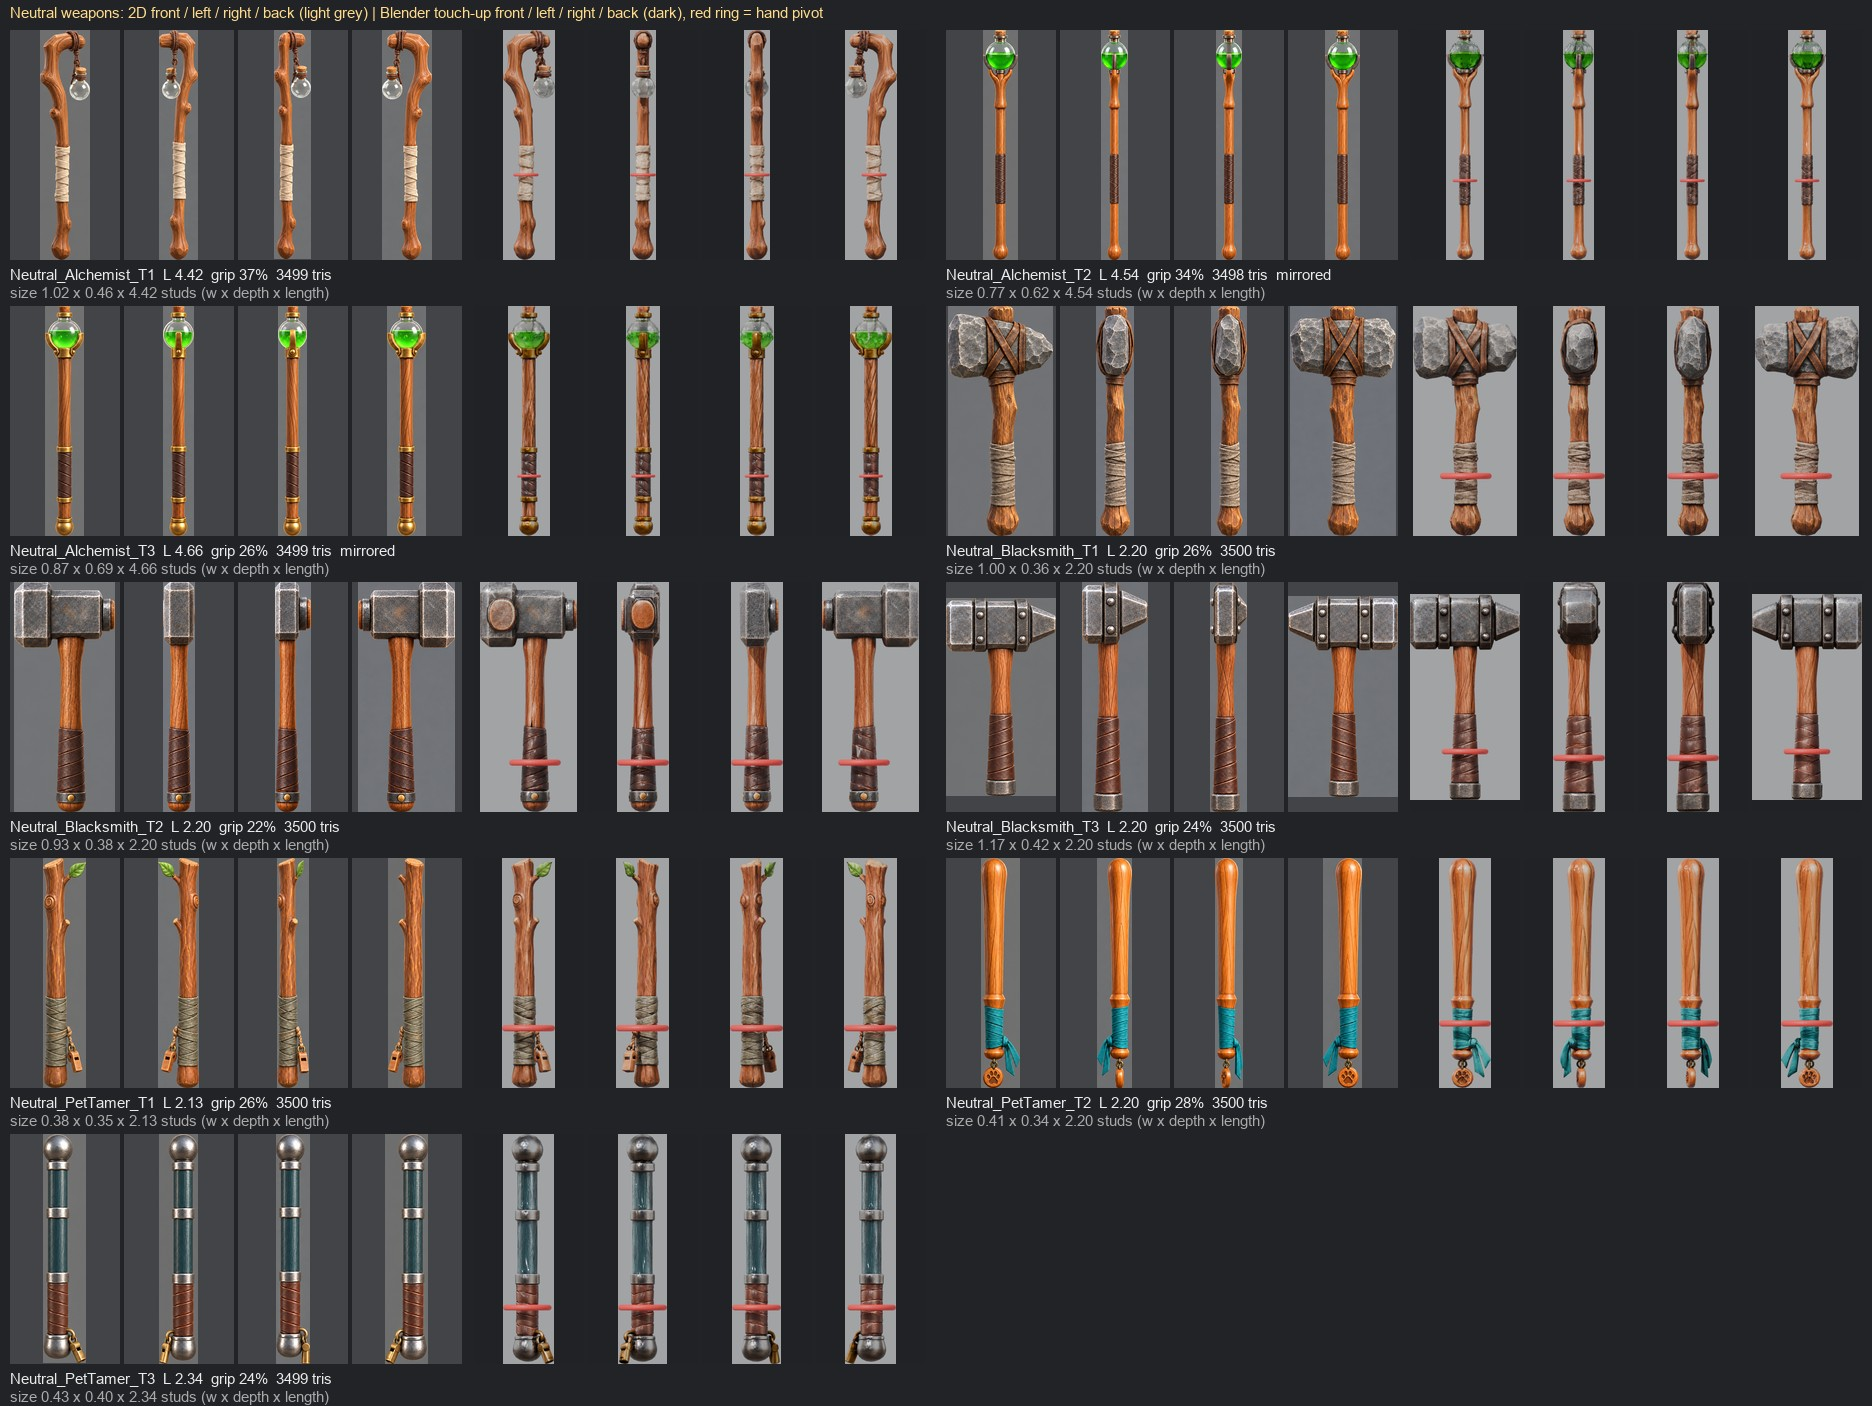
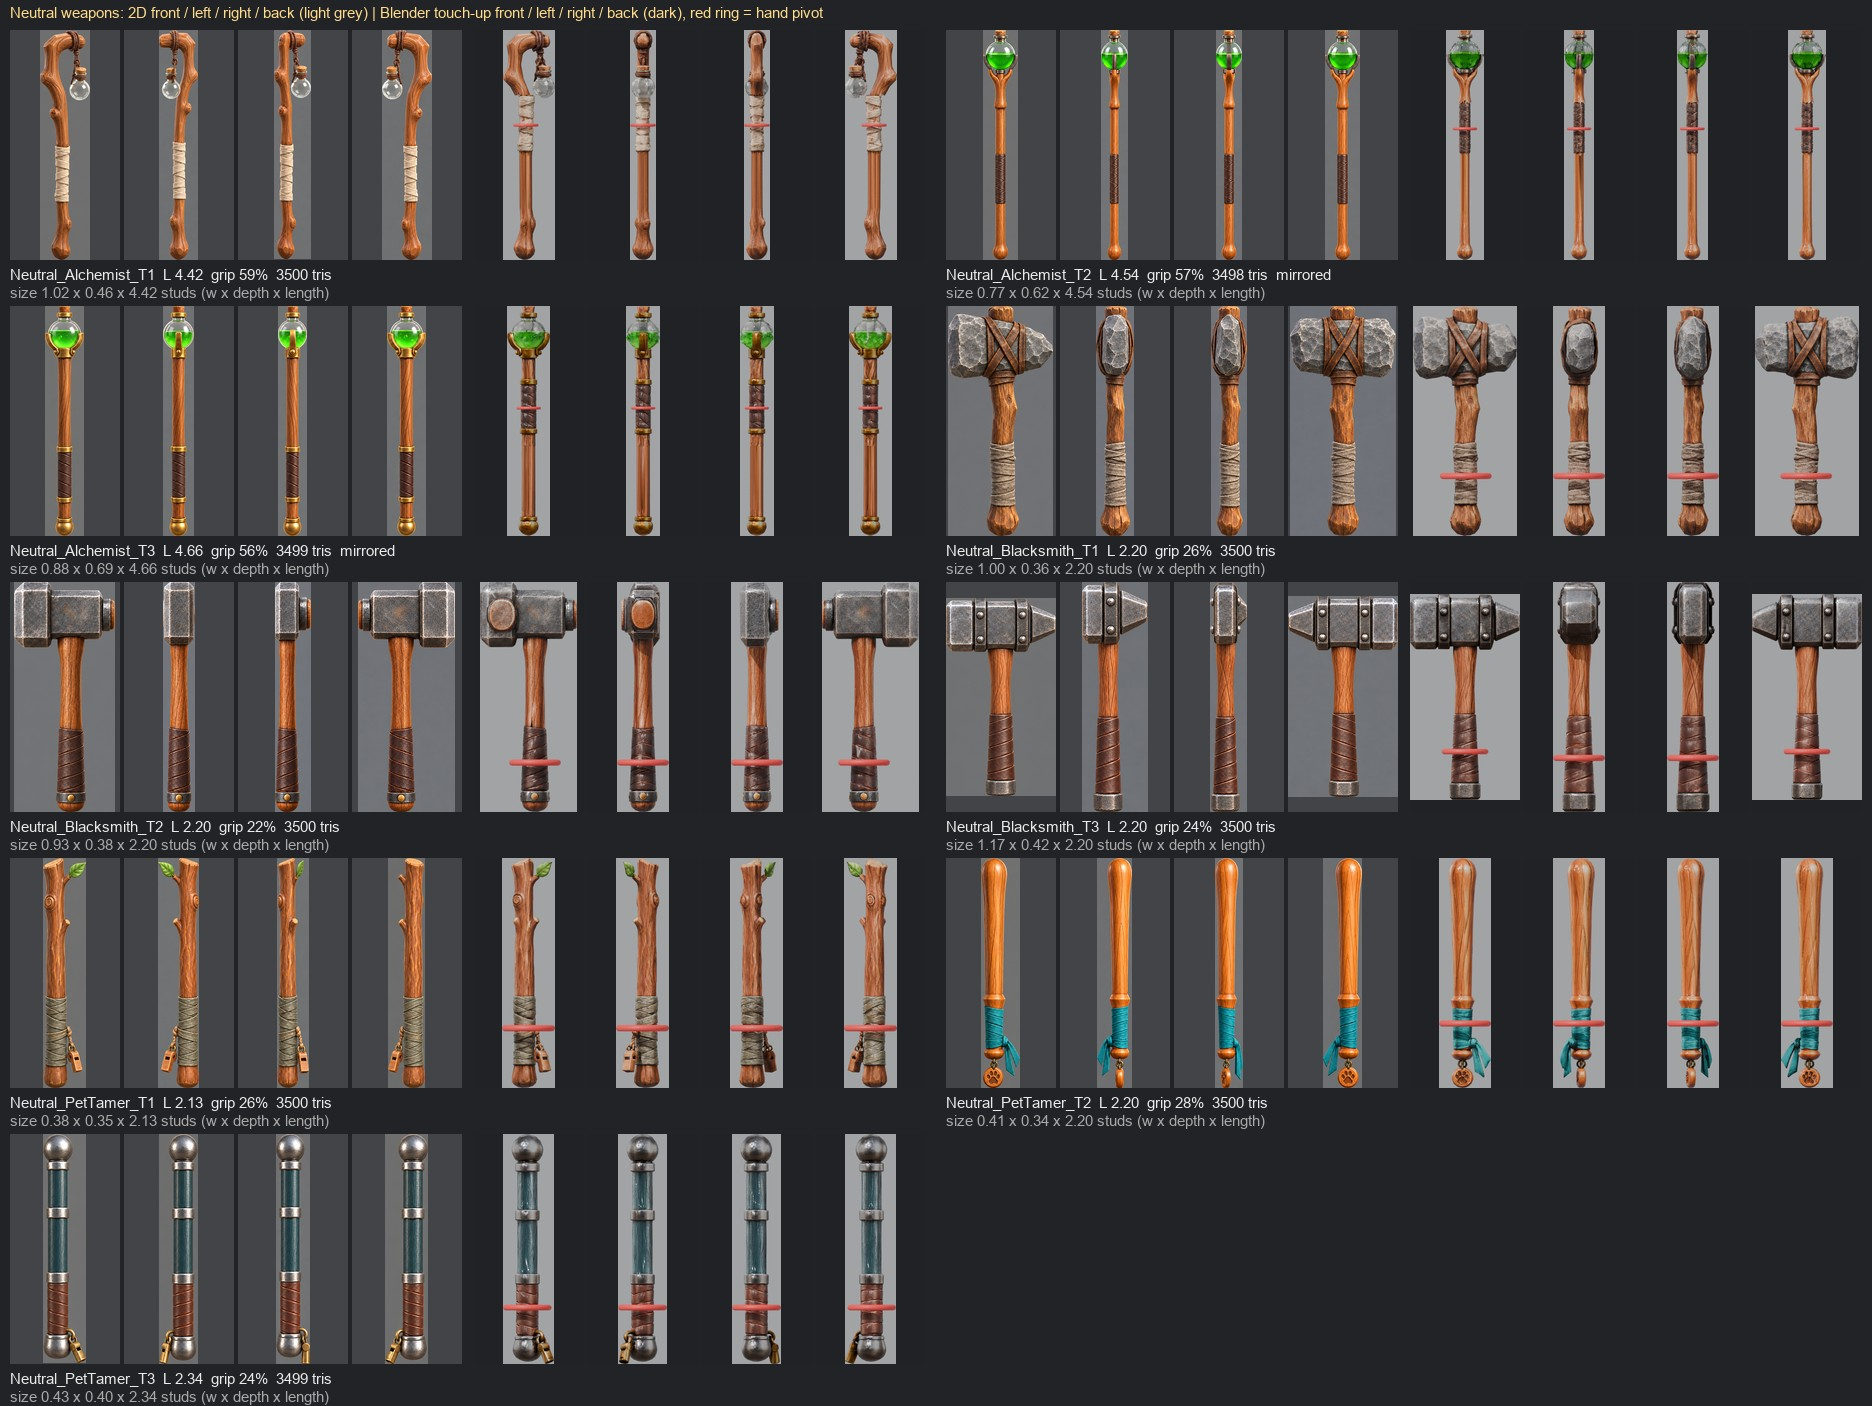
지팡이 7개 감은 손잡이 위로 옮김 + 바깥선 180도 회전 규칙

diff --git a/tools/tripo_weapon_touchup.py b/tools/tripo_weapon_touchup.py
@@ -63,6 +63,53 @@ WRAP = {
     "Weapon_Neutral_PetTamer_T1": 0.26, "Weapon_Neutral_PetTamer_T2": 0.28, "Weapon_Neutral_PetTamer_T3": 0.245,
 }
 
+# 개발 1 (fix/staff-hip, 10/12): on these staffs the wrapped grip moves UP so the hand holds it in the hip pose; the wrap
+# band (wrap + its rings, share of the height measured on the Tripo width profile) is cut out, moved along the staff so
+# its middle sits at <target> studs from the foot, the hole is filled by stretching the bare shaft just below it (knots
+# and branches stay where they are). (lo, hi, target studs)
+MOVE = {
+    "Weapon_Halo_LightMage_T1": (0.365, 0.515, 2.63), "Weapon_Halo_LightMage_T3": (0.235, 0.455, 2.63),
+    "Weapon_Horns_DarkMage_T1": (0.295, 0.515, 2.53), "Weapon_Horns_DarkMage_T3": (0.265, 0.495, 2.53),
+    "Weapon_Neutral_Alchemist_T1": (0.245, 0.495, 2.59), "Weapon_Neutral_Alchemist_T2": (0.235, 0.455, 2.59),
+    "Weapon_Neutral_Alchemist_T3": (0.135, 0.385, 2.59),
+}
+
+
+def move_wrap(me, z0, L, lo_s, hi_s, target, sl=0.05, rmax=0.3):
+    """cut the band [lo, hi] (faces near the staff axis), move it by d along z, stretch the bare slice [lo - sl, lo]
+    up to hi + 0.02 to fill the hole; returns (lo, hi, d) in studs"""
+    lo, hi = z0 + lo_s * L - 0.03, z0 + hi_s * L + 0.03          # a little past the rings: no ring sliver left behind
+    d = z0 + target - (lo + hi) / 2
+    bm = bmesh.new()
+    bm.from_mesh(me)
+    bmesh.ops.remove_doubles(bm, verts=bm.verts, dist=1e-4)
+    for zc in (lo - sl, lo, hi):
+        bmesh.ops.bisect_plane(bm, geom=bm.verts[:] + bm.edges[:] + bm.faces[:], plane_co=(0, 0, zc), plane_no=(0, 0, 1))
+    P = np.array([v.co[:] for v in bm.verts if lo <= v.co.z <= hi])
+    ax, ay = float(np.median(P[:, 0])), float(np.median(P[:, 1]))
+
+    def near(f, a, b):
+        c = f.calc_center_median()
+        return a - 1e-5 <= c.z <= b + 1e-5 and math.hypot(c.x - ax, c.y - ay) < rmax
+    band = [f for f in bm.faces if near(f, lo, hi)]
+    piece = [f for f in bm.faces if near(f, lo - sl, lo)]
+    rw = float(np.median([math.hypot(v.co.x - ax, v.co.y - ay) for f in band for v in f.verts]))
+    # where the wrap lands, knots / lumps of the shaft that would poke through it are dropped (the wrap hides the rest)
+    poke = [f for f in bm.faces if near(f, lo + d, hi + d) and math.hypot(f.calc_center_median().x - ax, f.calc_center_median().y - ay) > 0.9 * rw]
+    dup = bmesh.ops.duplicate(bm, geom=band)
+    bmesh.ops.translate(bm, verts=[g for g in dup["geom"] if isinstance(g, bmesh.types.BMVert)], vec=(0, 0, d))
+    bmesh.ops.delete(bm, geom=band + [f for f in poke if f not in band], context="FACES")
+    k = (hi + 0.02 - (lo - sl)) / sl
+    for v in {v for f in piece for v in f.verts}:
+        if v.co.z > lo - sl + 1e-5:
+            v.co.z = lo - sl + (v.co.z - (lo - sl)) * k
+    bmesh.ops.delete(bm, geom=[v for v in bm.verts if not v.link_faces], context="VERTS")
+    bm.to_mesh(me)
+    bm.free()
+    me.update()
+    return lo, hi, d
+
+
 argv = sys.argv[sys.argv.index("--") + 1:]
 ap = argparse.ArgumentParser()
 ap.add_argument("job")
@@ -72,6 +119,7 @@ ap.add_argument("--min-thick", type=float, default=0.2)
 ap.add_argument("--rotz", type=float, default=90.0)
 ap.add_argument("--out", default=os.path.join(ROOT, "art", "models", "tripo", "weapons"))
 ap.add_argument("--preview", action="store_true")
+ap.add_argument("--no-move", action="store_true", help="keep the wrap where Tripo made it (MOVE table off)")
 ap.add_argument("--preview-only", action="store_true", help="only re-render the previews of an existing <job>_TU.glb")
 ap.add_argument("--sym", action="store_true", help="left / right mirror (the 2D front is symmetric): keep the +x half, mirror it")
 a = ap.parse_args(argv)
@@ -176,6 +224,12 @@ s = length / (z1 - z0)
 me.transform(Matrix.Scale(s, 4))
 V = np.array([v.co[:] for v in me.vertices])
 z0 = V[:, 2].min()
+if a.job in MOVE and not a.no_move:
+    lo_s, hi_s, tgt = MOVE[a.job]
+    mlo, mhi, md = move_wrap(me, z0, length, lo_s, hi_s, tgt)
+    stats["wrap_moved"] = {"from": [round(mlo - z0, 3), round(mhi - z0, 3)], "up": round(md, 3), "centre_now": tgt}
+    V = np.array([v.co[:] for v in me.vertices])
+    z0 = V[:, 2].min()
 zg = z0 + hand * length                                     # the grip height (share of the length)
 zguard = None
 if kind in ("sword", "darksword"):
@@ -209,6 +263,9 @@ if a.job in WRAP:
     stats["grip_code_share"] = round(float((zg - z0) / length), 3)
     zg = z0 + WRAP[a.job] * length
     stats["grip_source"] = "2D wrap centre"
+if "wrap_moved" in stats:
+    zg = z0 + stats["wrap_moved"]["centre_now"]
+    stats["grip_source"] = "moved wrap centre (개발 1 hip pose)"
 band = V[np.abs(V[:, 2] - zg) < 0.08 * length]
 stats["grip_from_bottom"] = round(float((zg - z0) / length), 3)
 cx, cy = (band[:, 0].min() + band[:, 0].max()) / 2, (band[:, 1].min() + band[:, 1].max()) / 2

diff --git a/tools/prop_compare_shots.py b/tools/prop_compare_shots.py
@@ -73,7 +73,9 @@ local function meshPart(id, centre)
 	local ok, mp = pcall(function() return AS:CreateMeshPartAsync(Content.fromUri(id), {CollisionFidelity = Enum.CollisionFidelity.Box, RenderFidelity = Enum.RenderFidelity.Precise}) end)
 	if not ok then error("mesh " .. id .. ": " .. tostring(mp)) end
 	mp.Anchored = true; mp.CanCollide = false; mp.CanTouch = false; mp.CanQuery = false
-	mp.CFrame = pivot * CFrame.new(centre[1], centre[2], centre[3])
+	-- Studio's 3D import turns an OBJ half round the vertical (x and z negated, measured 10/12 on Lantern_C / BenchB):
+	-- turn it back, or an asymmetric hull sits on the wrong side as a dark copy (A.rot_y overrides, 0 = as uploaded)
+	mp.CFrame = pivot * CFrame.new(centre[1], centre[2], centre[3]) * CFrame.Angles(0, A.rot_y or math.pi, 0)
 	mp.Parent = m
 	return mp
 end

diff --git a/docs/design/halo_prop_outlines_2026-10-12.md b/docs/design/halo_prop_outlines_2026-10-12.md
@@ -3,7 +3,7 @@
 사용자 결정 SPEC A23-139: 소품 바깥선 = 얇은 선(0.035칸), 기본 B(모든 파트 그림자) 위에 뒤집힌 껍데기 메시. 디자인 검수 10/12: 껍데기는 바깥 실루엣 + 큰 덩어리만(가장 작은 변 0.12칸 미만·가장 큰 변 0.3칸 미만 파트 = 판 줄·작은 띠·창 테·작은 공 빼기), 거리 끄기는 아직 안 함.
 
 - 만드는 법: `blender --background --factory-startup --python tools/prop_kit_bake.py -- build/prop_kit_hull035 build/prop_kit/<키>.json --hull-only --hull-t 0.035 --hull-min 0.12 --hull-big 0.3 [--preview]`
-- 파일: `build/prop_kit_hull035/<키>_D2_035.obj` (삼각형만, Roblox 축 = Y 위·앞 -Z, 1 = 1칸, 키트 원점 기준, 법선은 일부러 안쪽) + `<키>_D2_035.json`(D2_center_roblox = 상자 중심). 놓기: MeshPart.CFrame = 키트 피벗 × CFrame.new(상자 중심), SmoothPlastic (74,50,36), CastShadow·CanCollide·CanQuery 끔, DoubleSided 끔. 모델 안에 넣으면 ScaleTo로 같이 커짐.
+- 파일: `build/prop_kit_hull035/<키>_D2_035.obj` (삼각형만, Roblox 축 = Y 위·앞 -Z, 1 = 1칸, 키트 원점 기준, 법선은 일부러 안쪽) + `<키>_D2_035.json`(D2_center_roblox = 상자 중심). 놓기: MeshPart.CFrame = 키트 피벗 × CFrame.new(상자 중심) × **CFrame.Angles(0, math.pi, 0)** (Studio 3D 가져오기가 OBJ를 세로축 180° 돌림 — 10/12 Lantern_C·BenchB 실측, 안 돌리면 비대칭 키트는 반대쪽에 검은 복사본), SmoothPlastic (74,50,36), CastShadow·CanCollide·CanQuery 끔, DoubleSided 끔. 모델 안에 넣으면 ScaleTo로 같이 커짐.
 - 같은 키트를 여러 군데 놓아도 메시 1개를 같이 씀(마을 놓인 수와 상관없이 키트당 1개). 등불 56개 = 기둥 종류 A~E 5개.
 - 빼는 키트 2: HaloReasonHQ_PhotoDisc(바닥 원판), NEW_SteppingStones(납작한 돌) — 선이 의미 없음.
 - Tripo 메시(식물·등불 머리·종·벽등 머리·바위 등)는 tools/tripo_touchup.py에서 같은 0.035 껍데기를 붙여 한 GLB로(다음 일).

diff --git a/docs/design/weapon_grip_heights_2026-10-12.md b/docs/design/weapon_grip_heights_2026-10-12.md
@@ -39,3 +39,18 @@
 | Neutral_PetTamer_T3 | 2.34 | 12 | 24.5 | 37 | 0.28 ~ 0.87 | 30 |
 
 활(Ranger·ShadowHunter)은 가운데 감은 곳 = 활 가운데라 옛 코드와 같음. 칼·망치·지휘봉은 옛 코드와 5% 안쪽 차이. 많이 바뀌는 것 = 지팡이 6개 + 연금술사 3개(66/62% → 26~55%).
+
+## 10/12 오후: 지팡이 7개 감은 곳 위로 옮김 (개발 1 fix/staff-hip 실측, 디자인 검수 지시)
+감은 곳(천·끈 + 위아래 고리)을 통째로 잘라 지팡이 축 따라 위로 옮기고, 빈 자리는 바로 아래 맨 막대를 늘여 채움(혹·가지 자리 그대로, 옮긴 자리에서 감은 곳을 뚫고 나올 혹만 지움). 피벗 = 새 감은 곳 가운데. `tools/tripo_weapon_touchup.py` `MOVE` 표, 시트 `art/review/img4/staff_wrap_moved_1012.jpg`.
+
+| 무기 | 감은 곳 가운데(바닥부터 칸) | 올린 만큼(칸) | 손 % |
+|---|---|---|---|
+| Halo_LightMage_T1 | 2.63 | +0.69 | 59.5 |
+| Halo_LightMage_T3 | 2.63 | +1.02 | 56.4 |
+| Horns_DarkMage_T1 | 2.53 | +0.74 | 57.2 |
+| Horns_DarkMage_T3 | 2.53 | +0.76 | 54.3 |
+| Neutral_Alchemist_T1 | 2.59 | +0.95 | 58.6 |
+| Neutral_Alchemist_T2 | 2.59 | +1.02 | 57.0 |
+| Neutral_Alchemist_T3 | 2.59 | +1.38 | 55.6 |
+
+LightMage T2·DarkMage T2는 감은 곳이 이미 범위 안 → 그대로(감은 곳 가운데 피벗).
